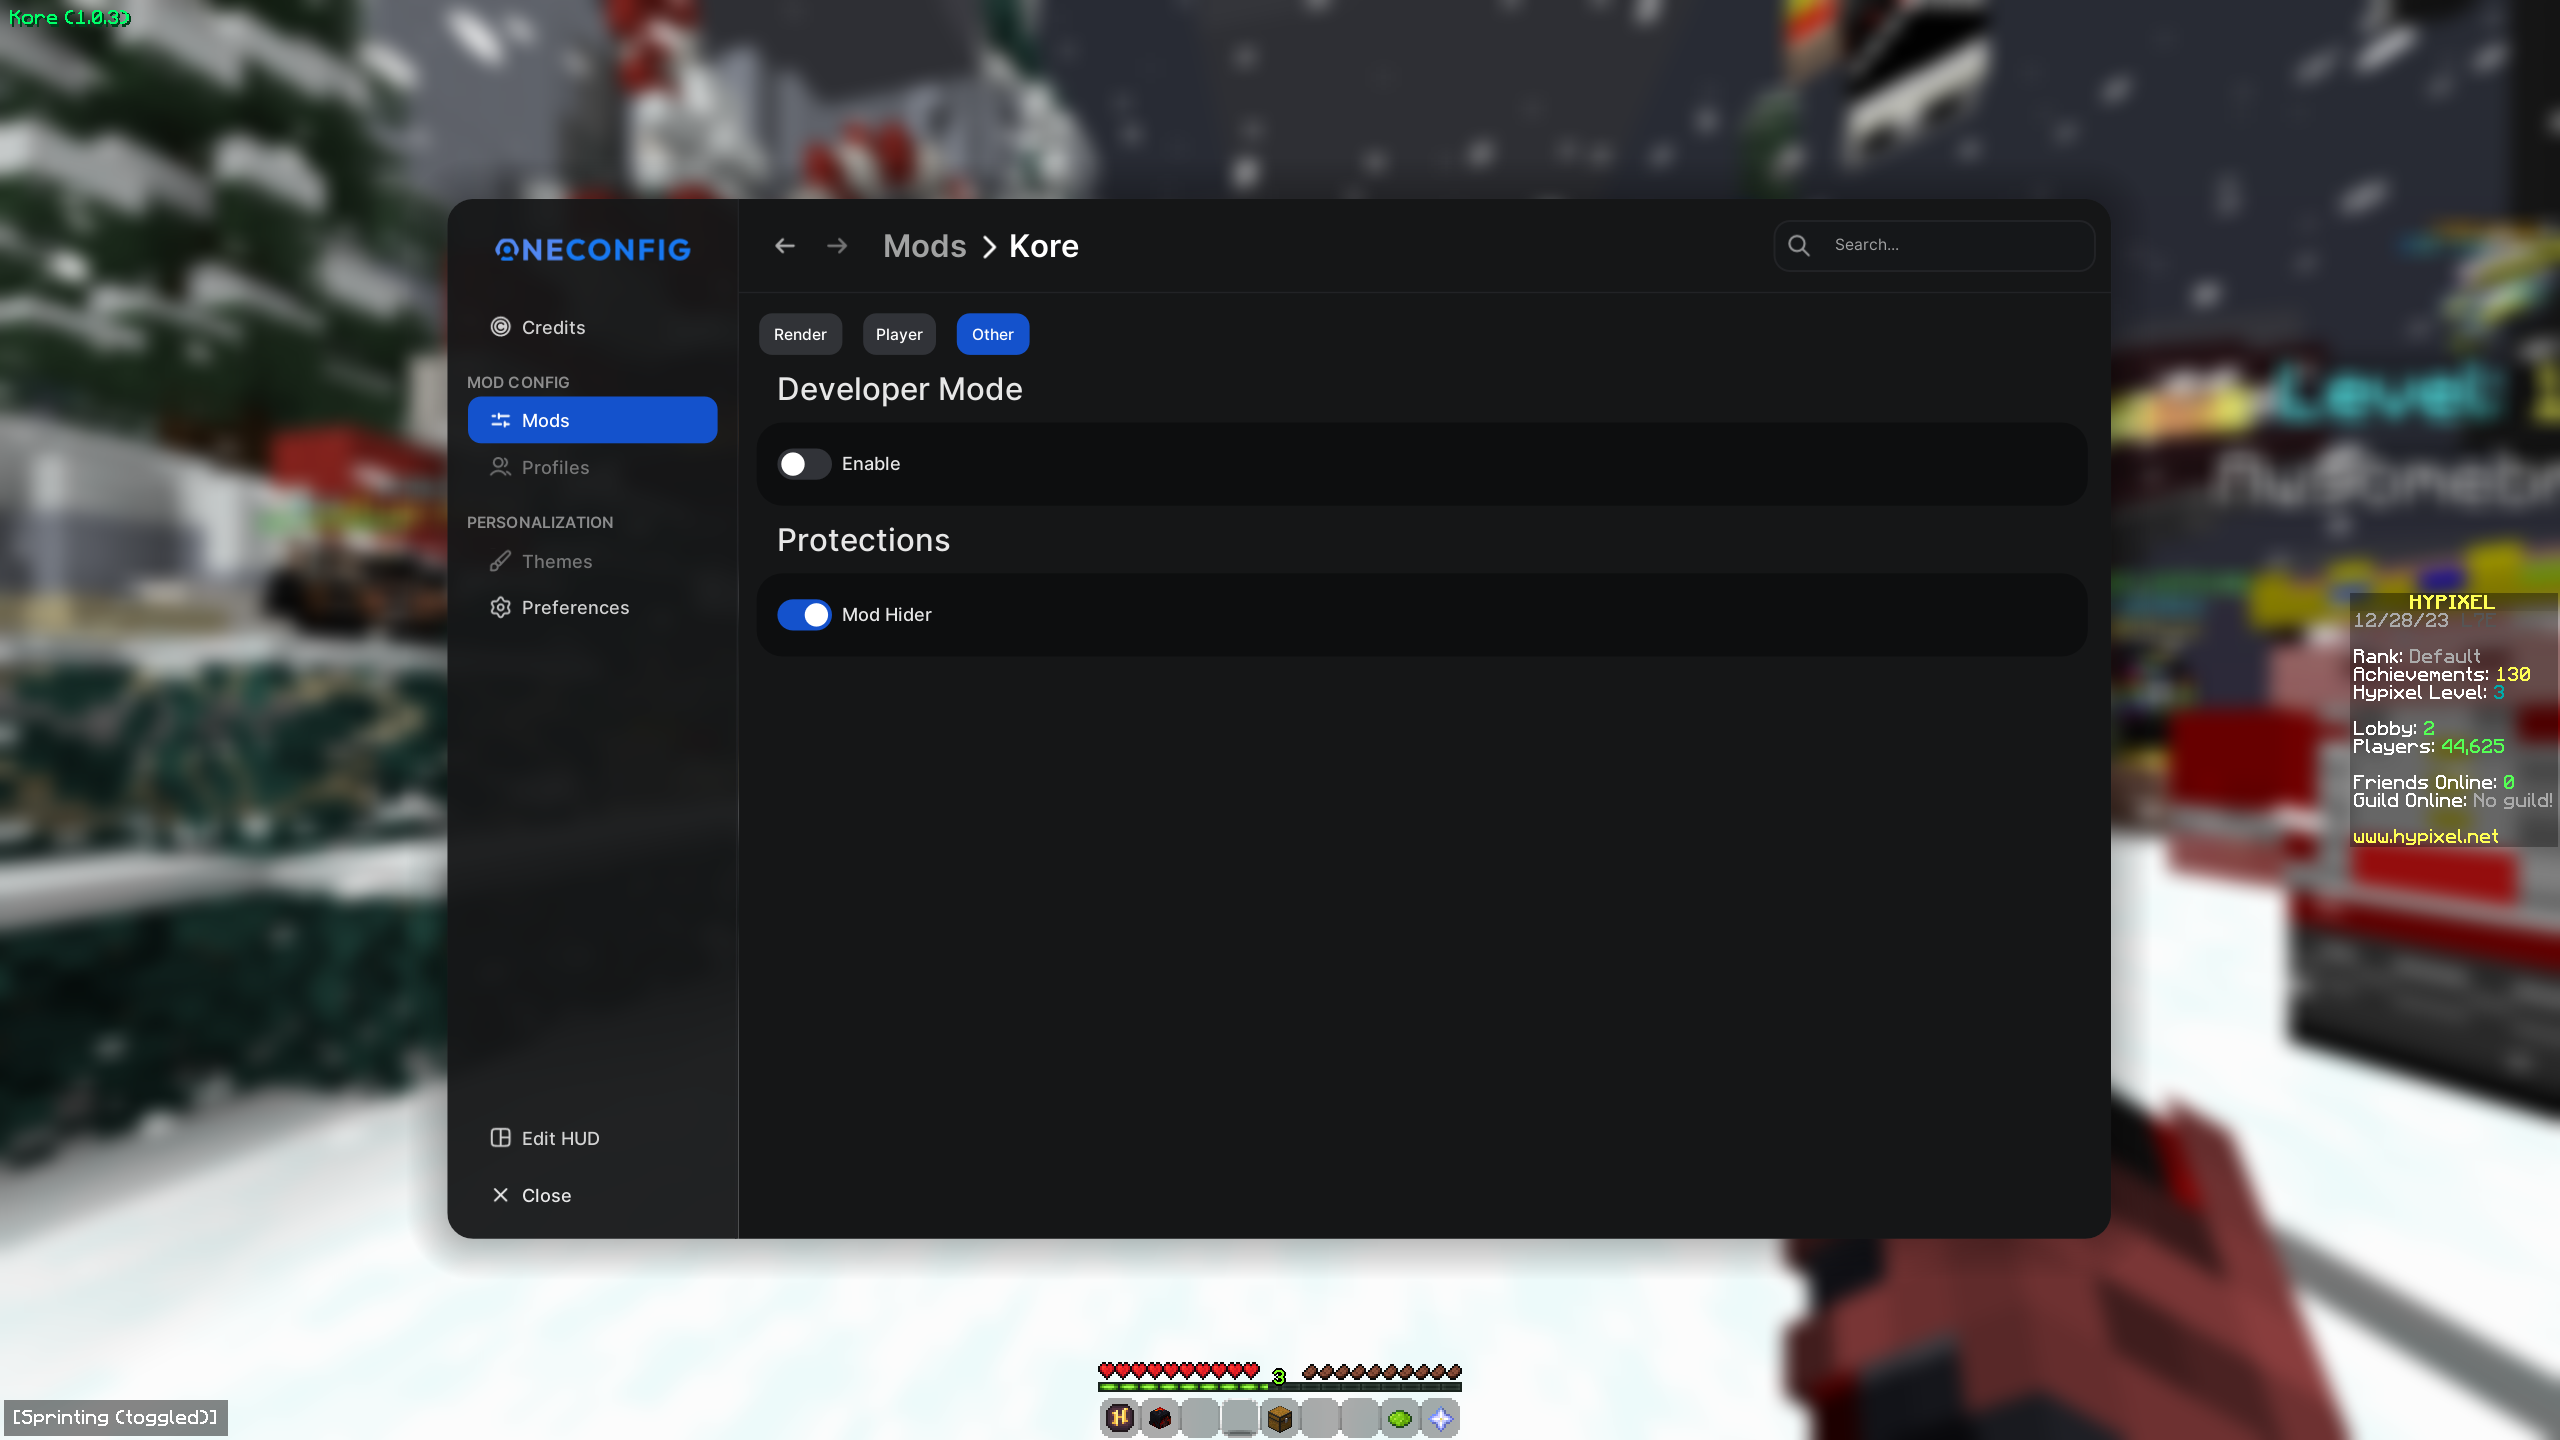
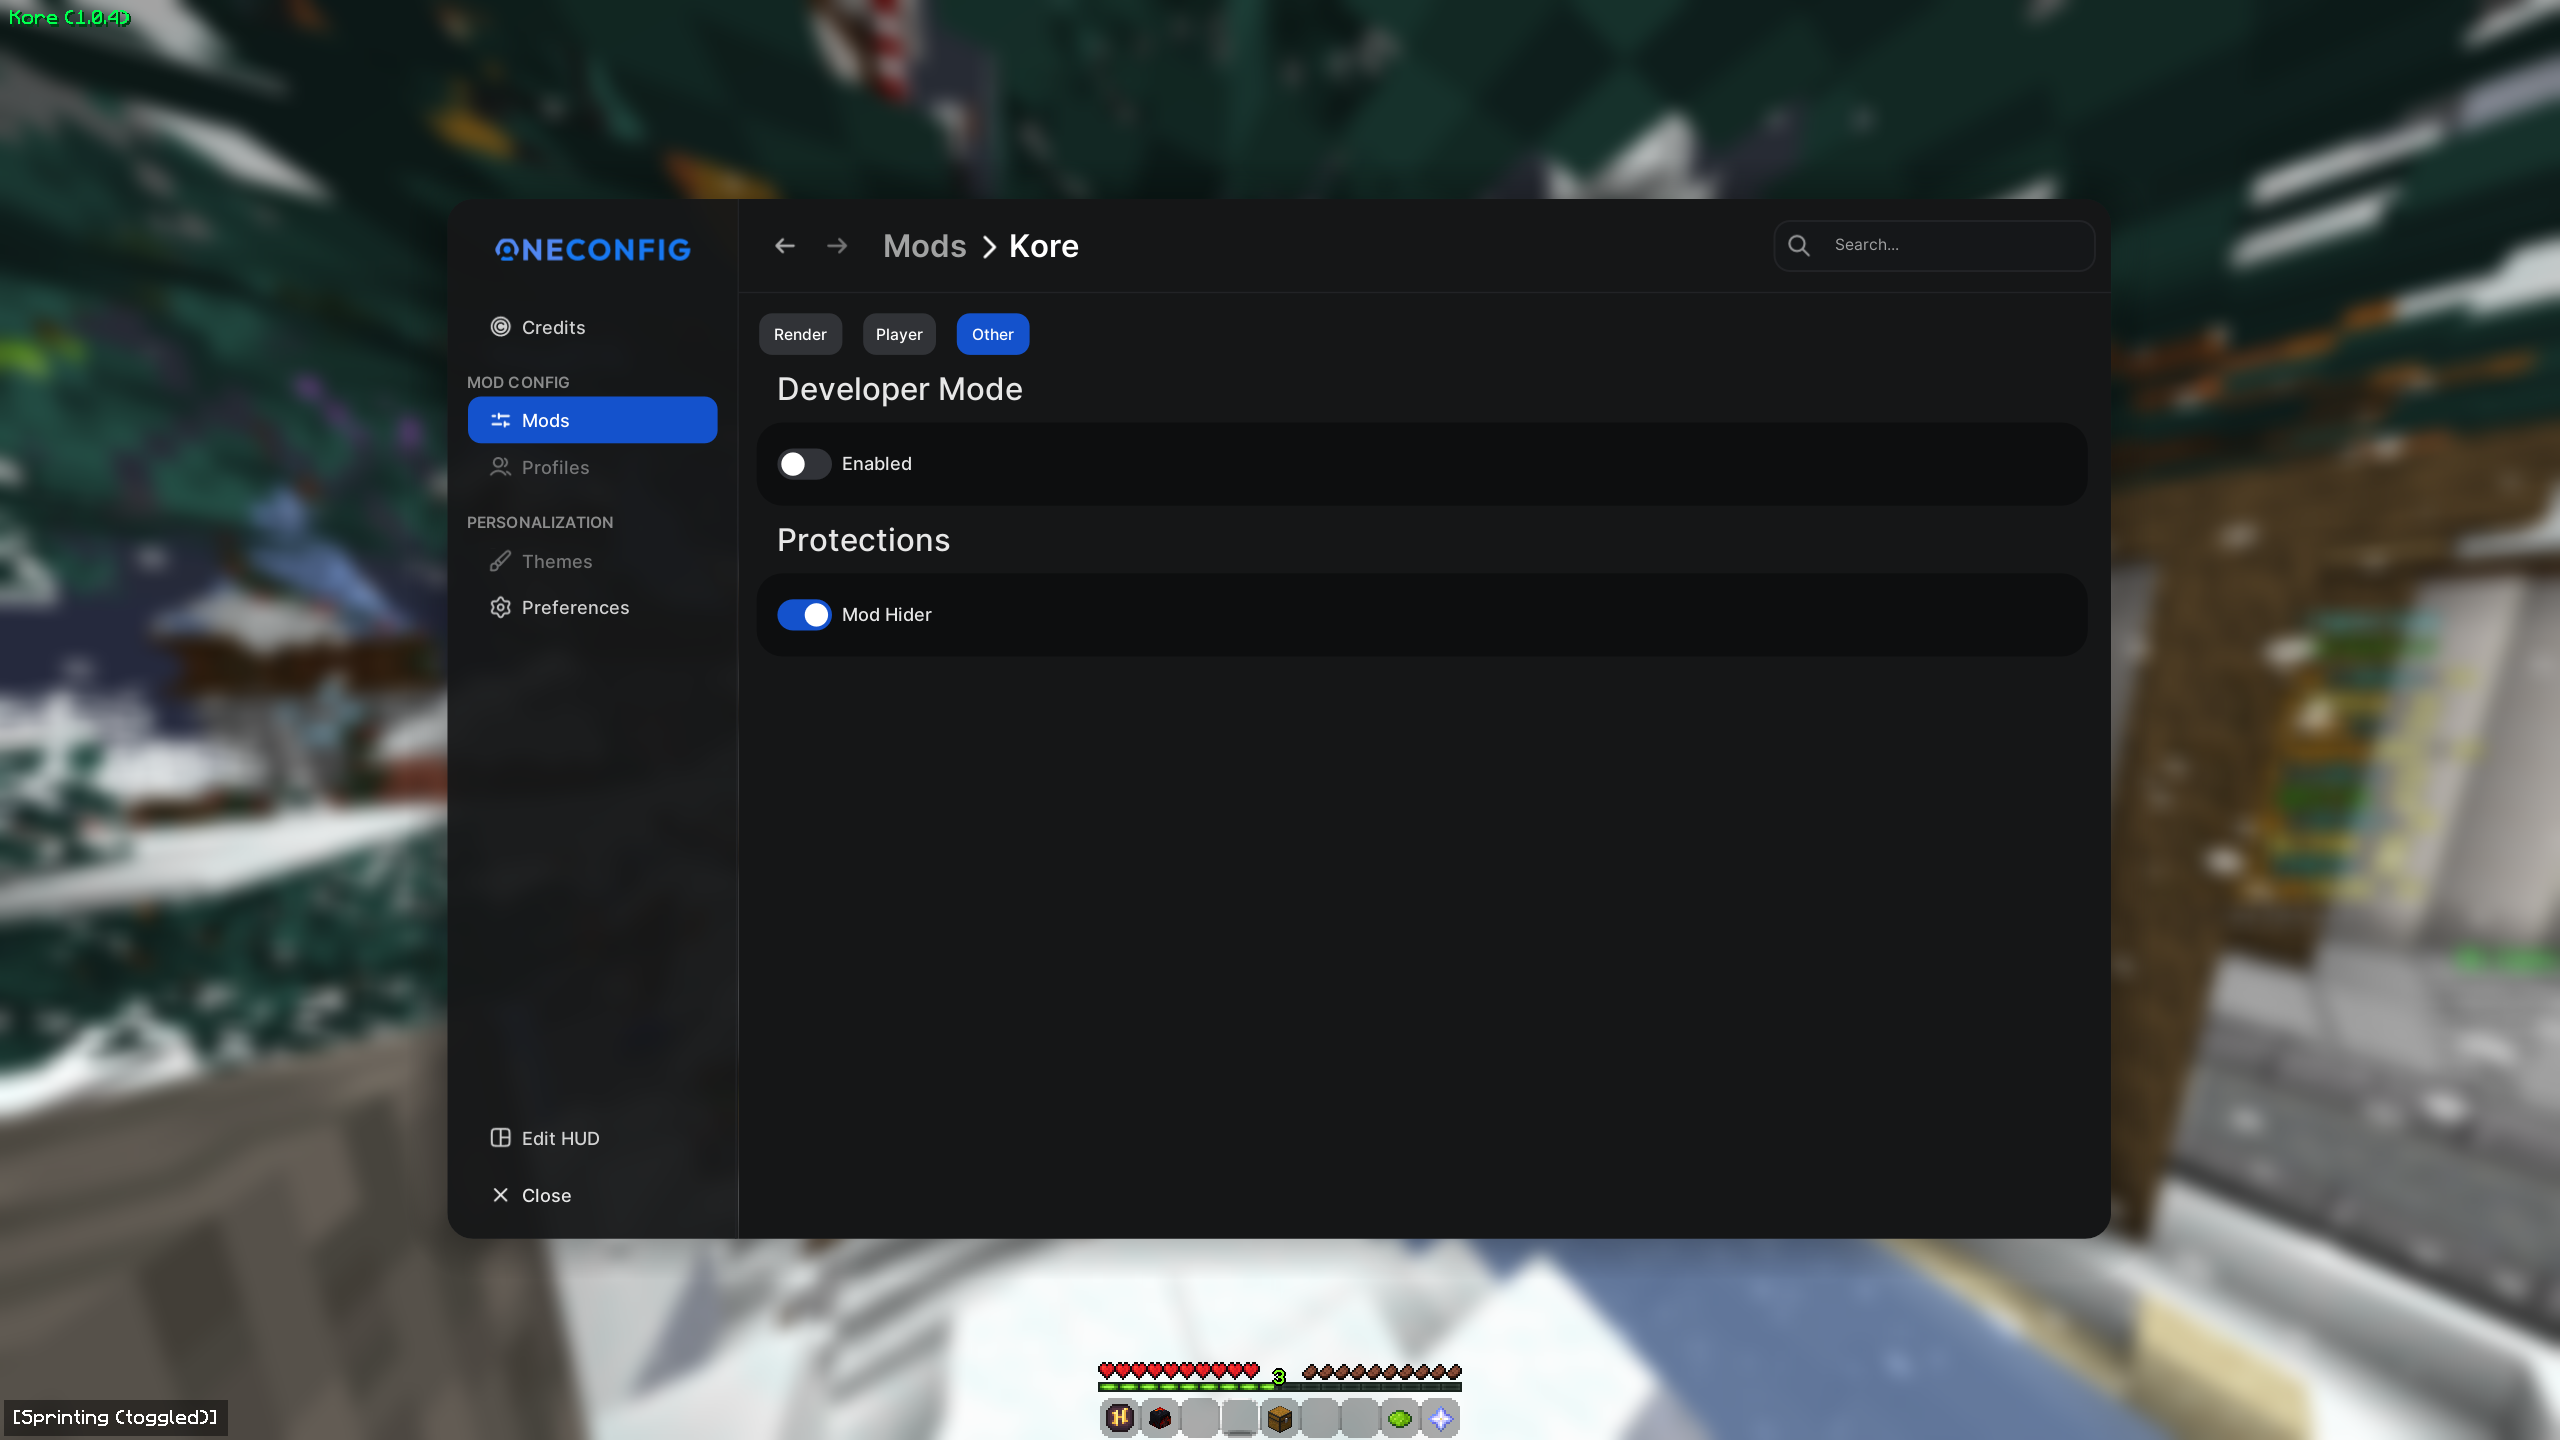
1.0.4
Changelog:
[+] Completely hides the mod when sending the modlist to the server
[+] Which mods are hidden and visible to server are now logged if DevMode is active.

diff --git a/src/main/java/katoz/kore/mixins/ModListMixin.java b/src/main/java/katoz/kore/mixins/ModListMixin.java
@@ -1,27 +1,56 @@
 package katoz.kore.mixins;
 
+import io.netty.buffer.ByteBuf;
 import katoz.kore.Kore;
 import katoz.kore.config.KoreConfig;
-import net.minecraftforge.fml.common.ModContainer;
+import net.minecraft.client.Minecraft;
+import net.minecraftforge.fml.common.network.ByteBufUtils;
 import net.minecraftforge.fml.common.network.handshake.FMLHandshakeMessage;
+import org.apache.logging.log4j.LogManager;
+import org.apache.logging.log4j.Logger;
 import org.spongepowered.asm.mixin.Mixin;
 import org.spongepowered.asm.mixin.Shadow;
 import org.spongepowered.asm.mixin.injection.At;
 import org.spongepowered.asm.mixin.injection.Inject;
 import org.spongepowered.asm.mixin.injection.callback.CallbackInfo;
 
-import java.util.List;
+import java.util.ArrayList;
 import java.util.Map;
 
-@Mixin(value = FMLHandshakeMessage.ModList.class, remap = false)
+@Mixin(value = FMLHandshakeMessage.ModList.class)
 public class ModListMixin {
-    @Shadow
+
+    private static final Logger logger = LogManager.getLogger();
+
+    @Shadow(remap = false)
     private Map<String, String> modTags;
 
-    @Inject(method = "<init>(Ljava/util/List;)V", at = @At("RETURN"))
-    private void removeModID(List<ModContainer> modList, CallbackInfo ci) {
-        if (KoreConfig.modHider && !Kore.mc.isIntegratedServerRunning()) {
-            modTags.remove(Kore.MODID);
+    @Inject(method = "toBytes", at = @At(value = "HEAD"), cancellable = true, remap = false)
+    public void toBytes(ByteBuf buffer, CallbackInfo callbackInfo) {
+        if (!KoreConfig.modHider || Minecraft.getMinecraft().isSingleplayer()) return;
+
+        callbackInfo.cancel();
+
+        ArrayList<Map.Entry<String, String>> shownTags = new ArrayList<>();
+        for (Map.Entry<String, String> modTag : this.modTags.entrySet()) {
+            if (!modTag.getKey().equals(Kore.MODID)) {
+                shownTags.add(modTag);
+            } else {
+                if(KoreConfig.devMode) {
+                    logger.info(String.format("[KORE] Hidden Mod: %s %s", modTag.getKey(), modTag.getValue()));
+                }
+            }
         }
+
+        ByteBufUtils.writeVarInt(buffer, shownTags.size(), 2);
+
+        for (Map.Entry<String, String> modTag : shownTags) {
+            if(KoreConfig.devMode) {
+                logger.info(String.format("[KORE] Visible Mod: %s %s", modTag.getKey(), modTag.getValue()));
+            }
+            ByteBufUtils.writeUTF8String(buffer, modTag.getKey());
+            ByteBufUtils.writeUTF8String(buffer, modTag.getValue());
+        }
+
     }
 }

diff --git a/src/main/java/katoz/kore/config/KoreConfig.java b/src/main/java/katoz/kore/config/KoreConfig.java
@@ -106,7 +106,7 @@ public class KoreConfig extends Config {
     public static boolean ultrasequencerSolver = false;
 
     @Switch(
-            name = "Enable",
+            name = "Enabled",
             description = "Enable or disable developer mode (useful for debugging)",
             category = OTHER,
             subcategory = DEVELOPMENT
@@ -115,7 +115,7 @@ public class KoreConfig extends Config {
 
     @Switch(
             name = "Mod Hider",
-            description = "Hides the mod id from the mods list",
+            description = "Hides the mod when sending the modlist to the server",
             category = OTHER,
             subcategory = PROTECTIONS
     )

diff --git a/README.md b/README.md
@@ -1,4 +1,4 @@
-# Kore (1.0.3)
+# Kore (1.0.4)
 
 Kore is a forge 1.8.9 mod, kore goal is to automate simple skyblock annoying and repetitive tasks.
 
@@ -22,6 +22,7 @@ Kore is a forge 1.8.9 mod, kore goal is to automate simple skyblock annoying and
 ![App Screenshot](screenshots/player.png)
 
 ![App Screenshot](screenshots/other.png)
+
 ## Contributing
 
 Contributions are always welcome!
@@ -39,7 +40,7 @@ Yes.
 
 Should be, use delays and you should be fine.
 
-#### Is it a rat?
+#### Is this a rat?
 
 No, compile it yourself if you want.
 
